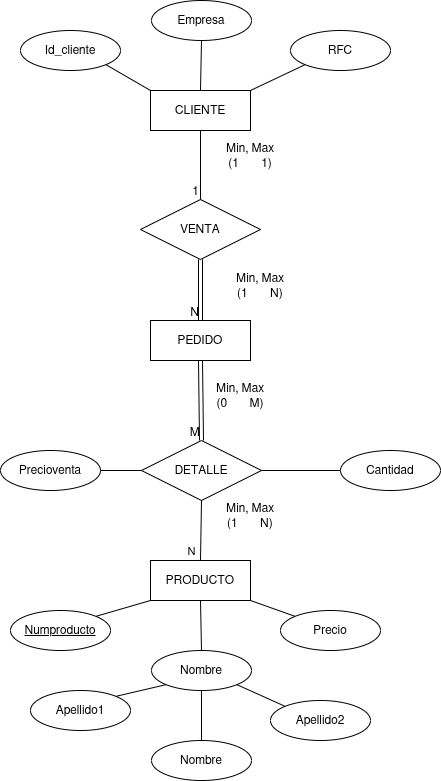
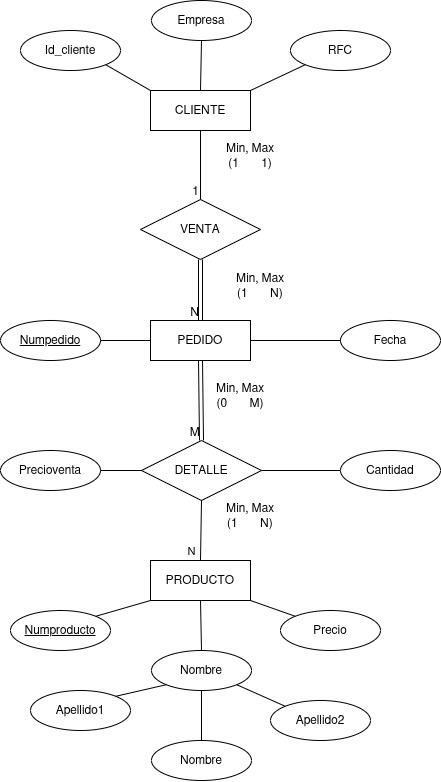
Diccionario 4

diff --git a/02-Modelado_BaseDatos/03-Diccionario-venta_pedido.md b/02-Modelado_BaseDatos/03-Diccionario-venta_pedido.md
@@ -1,0 +1,150 @@
+## DICCIONARIO DE DATOS DE LA BASE DE DATOS DE VENTAS DE PRODUCTO.
+---
+1. Informacion general 
+
+| Elemento | Valor |
+| :---------| :---------|
+| Proyecto    | Venta de producto |
+| Version    | 1.0    |
+| Fecha    | junio 2026    |
+| Elaboro    | Ing. Yael Barrera Escamilla    |
+| SGBD   | SQLServer    |
+| Elaboro    | Ing. Yael Barrera Escamilla    |
+
+```
+2. Descripcion del sistema de base de datos.
+
+el sistema administra:
+- Cliente.
+- Pedido.
+- Producto.
+
+y dos relaciones:
+- Venta.
+- Detalle.
+- Precioventa.
+- Cantidad.
+
+Permite llevar un registro para cada venta realizada en la empresa.
+```
+
+3. Catalogo de restricciones utilizadas
+
+| CODIGO | SIGNIDICADO |
+| :---  | :--- |
+| PK        | Primary key    |
+| FK        | Foreign key    |
+| NN        | NOT NULL       |
+| UQ        | UNIQUE         |
+| AI        | Auto Increment |
+| CK        | CHECK          |
+| DF        | DEFAULT        |
+| PK        | Primary key    |
+| PK        | Primary key    |
+
+---
+
+4. Diccionario de datos.
+
+## Tabla: CLIENTE.
+
+**DESCRIPCION**
+Almacena la informacion de los clientes que realizan pedidos.
+
+| CAMPO | TIPO | LONGITUD | RESTRICCIONES | DESCRIPCION |
+| :---  | :--- |   :---   | :--- | :--- |
+| id_cliente | INT | - | PK, AI, NN | Identificador unico del cliente |
+| Empresa | VARCHAR | 100 | NN | Nombre de la empresa cliente |
+| RFC | VARCHAR | 13 |  UQ, NN | Registro federal del contribuyente del cliente |
+
+---
+
+## Tabla: PEDIDO.
+
+**DESCRIPCION**
+Almacena la informacion de los pedidios realizados por los clientes.
+
+| CAMPO | TIPO | LONGITUD | RESTRICCIONES | DESCRIPCION |
+| :---  | :--- |   :---   | :--- | :--- |
+| numpedido | INT | - | PK, AI, NN | Identificador unico del pedido |
+| Fecha | DATO | - | NN | Fecha en que se realizo el pedido |
+| id_cliente | INT | - | FK, NN | Cliente que realizo el pedidio. |
+
+---
+
+## Tabla: PRODUCTO.
+
+**DESCRIPCION**
+Almacena la informacion de los productos disponibles para la venta.
+
+| CAMPO | TIPO | LONGITUD | RESTRICCIONES | DESCRIPCION |
+| :---  | :--- |   :---   | :--- | :--- |
+| num_producto | INT | - | PK, AI, NN | Identificador unico del producto |
+| Nombre | VARCHAR | 100 | NN | Nombre del producto |
+| Precio | DECIMAL | 10,2 | NN, CK(>0) | Precio del producto |
+---
+
+## Tabla: DETALLE.
+
+**DESCRIPCION**
+Representa el detalle de cada pedido, indica los productos, la cantidad y el precio de venta.
+
+| CAMPO | TIPO | LONGITUD | RESTRICCIONES | DESCRIPCION |
+| :---  | :--- |   :---   | :--- | :--- |
+| num_pedido | INT | - | PK, FK, NN | Pedido al que pertenece el detalle |
+| num_producto | INT | - | PK, FK, NN | Producto incluido en el pedido |
+| Cantidad | INT | - | NN, CK(>0) | Cantidad solicitada del producto |
+| Precio_venta | DECIMAL | 10,2 | NN, CK(>0) | Precio de venta del producto en ese pedido |
+---
+
+## Relaciones de la base de datos.
+
+| RELACION | CARDINALIDAD | DESCRIPCION |
+| :---  | :--- |   :---   |
+| Cliente -> Pedido | 1:N | Un cliente puede realizar uno o varios pedidios |
+| Pedido -> Detalle | 1:N | Un pedido puede contener varios productos |
+| Producto -> Detalle | 1:N | Un producto puede aparecer en varios pedidos |
+| Pedido <--> Producto | N:M | Un pedido puede contener varios produtos y un producto puede formar parte de varios pedidios |
+
+---
+
+## Matriz de claves Foraneas.
+
+| TABLA | CAMPO FK | REFERENCIA |
+| :---  | :--- | :--- |
+| Pedido | id_cliente | Cliente(id_cliente) |
+| Detalle | num_pedido | Pedido(num_pedido) |
+| Detalle | num_producto | Producto(num_producto) |
+
+---
+
+## Integridad referencial.
+
+| CODIGO | REGLA |
+| :---  | :--- |
+| IR-01 | No se peude un pedidio para un cliente inexistente |
+| IR-02 | No se puede agregar un detalle para un pedido no existe |
+| IR-03 | No se puede registrar un producto en un detalle si el producto no existe |
+| IR-04 | No se puede eliminar un cliente que tenga pedidos registrados sin eliminarlos o reasignarlos previamente |
+| IR-05 | No se puede eliminar un producto que este registrado en un detalle de pedido |
+
+---
+
+## Reglas del negocio.
+
+| CODIGO | REGLA |
+| :---  | :--- |
+| RN-01 | Un cliente puede realizar uno o varios pedidos |
+| RN-02 | Cada pedido pertenece a un solo cliente |
+| RN-03 | Un pedido debe contener al menos un producto |
+| RN-04 | La cantidad de cada producto debe ser mayor a 0 |
+| RN-05 | El precio de venta debe ser mayor que 0 |
+| RN-06 | El RFC de cada cliente debe ser unico |
+
+---
+
+## Resultado Modelo E-R
+![Empresa](/img/E-R/diagrama4.jpg)
+
+## Resultado Modelo Relacional
+![Resultado de cuadro](/img/E-R/)